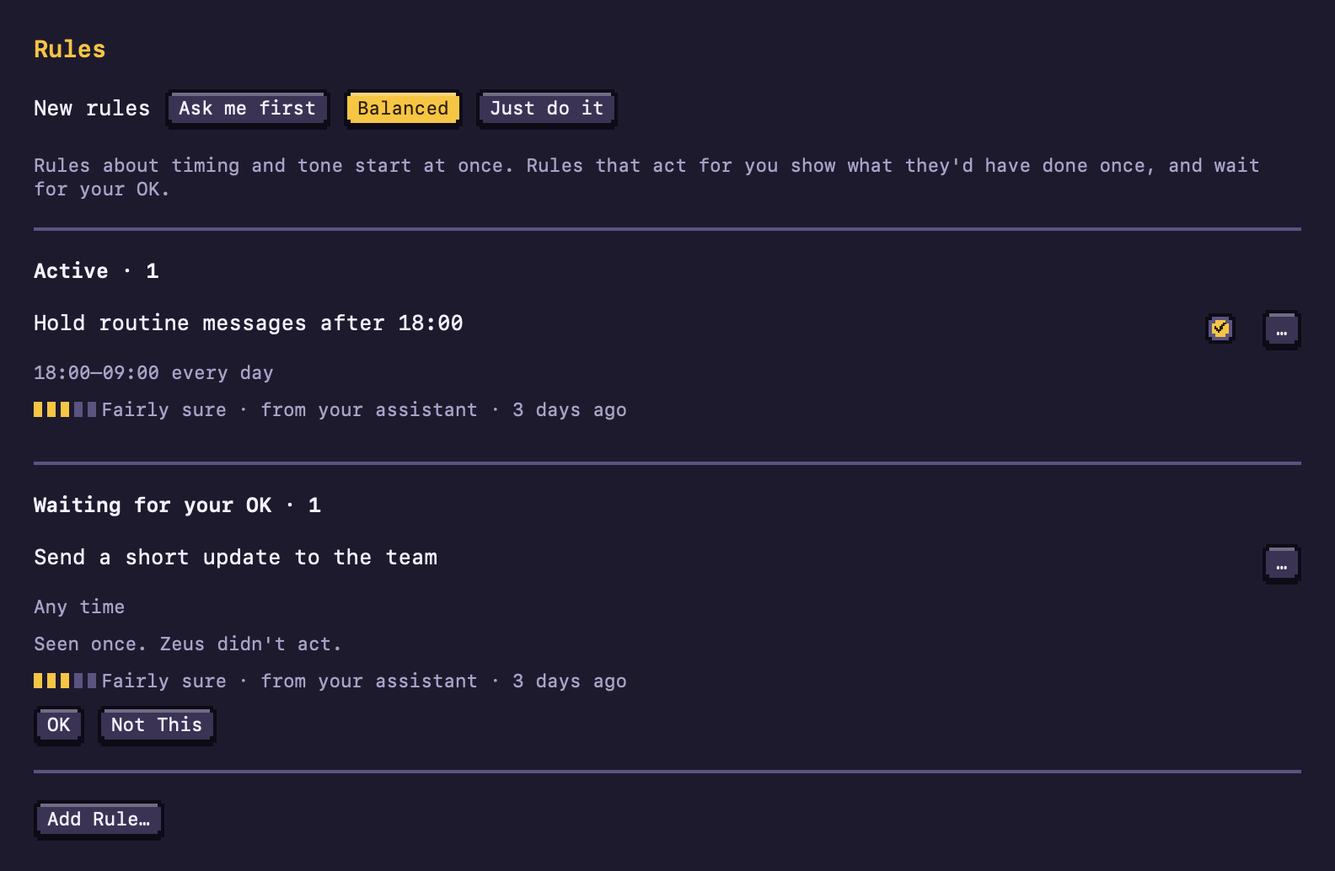
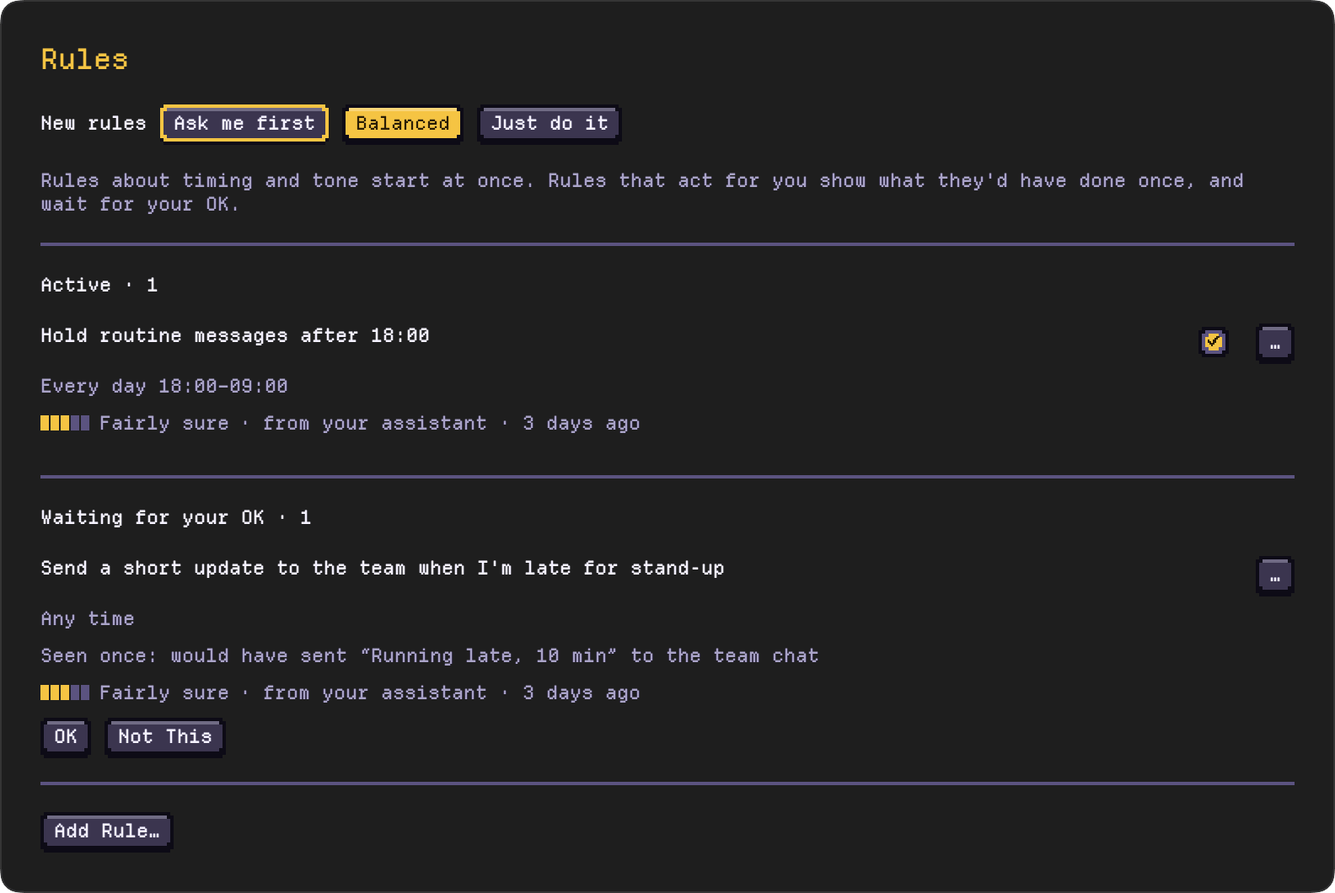
R6: README and SETUP cover all four learning levels and the privacy practices
README "Zeus learns how you work" now describes the four levels with the
permission each needs, the per-level coin and the Safari exception, how
the filtering works on the Mac (patterns, NSDataDetector, NaturalLanguage,
the on-device Foundation Model, Vision; no cloud; encrypted journal), what
the assistant gets and Raw on request, rules with shadow lines, Did · Undo,
outcomes and Why?, Ask About This, the user's controls, and ST1. "How it
works" privacy lines updated to match.

SETUP's Learn from me walkthrough gains a permissions table (Accessibility,
Screen Recording, Input Monitoring and why each is asked), Screen and
Typing sections, what the assistant can ask for, Ask About This, pictures
and typing in What Zeus Kept, acting rules, and three troubleshooting rows.

New README art from the design harness (`render.sh "readmeLearning()"`,
also part of `render.sh readme`): Settings › Privacy with all four levels,
What Zeus Kept with a covered picture and a typing group, and Rules with a
shadow line. Fixture journal under a scratch folder with a fixture key,
drawn window, stock app names; nothing captured or read from this Mac.

Claude-Session: https://claude.ai/code/session_012r8H4QHL5ohdtdo5L588Z2

diff --git a/scripts/design-harness/DesignerAuditRenders.swift b/scripts/design-harness/DesignerAuditRenders.swift
@@ -1011,6 +1011,8 @@ extension DesignerAuditRenders {
             try await settings(look)
             try await themes(look)
         }
+        NSTimeZone.default = previousZone
+        for look in Readme.looks { try await learning(look) }
     }
 
     /// "Make me a cat character" → the Undo line → the assistant's reply, in two themes side by side (R4).
@@ -2101,5 +2103,151 @@ extension DesignerAuditRenders {
                 .padding(18).frame(width: 400).zeusDialog(tail: nil).environment(\.zeusFontChoice, .pixel)
             }
         }
+    }
+}
+
+// MARK: - README: Learn from me (R6). The real Settings › Privacy pane with all four levels, What Zeus Kept with a
+// picture and typing, and Rules. Synthetic records in a fixture journal under a scratch folder with a fixture key;
+// nothing is captured, no permission is asked for, and no real journal, keychain or app list is read.
+
+@MainActor private final class ReadmeLearning {
+    let f: Fixture
+    let journal: EncryptedJournalStore
+    let policies: ObservationSettings
+    let learn: LearnFromMe
+    let learning: LearningPresentation
+    let rules = LM2DManagedRules()
+    let viewer: JournalViewerModel
+    let nav = SettingsNavigation()
+    /// 15:00 today: the viewer's clock, so the day reads "Today" and "days left" is stable within a day.
+    let now: Date
+
+    init() throws {
+        f = Fixture(font: .pixel)
+        let day = Calendar.current.startOfDay(for: Date())
+        now = day.addingTimeInterval(15 * 3600)
+        journal = EncryptedJournalStore(root: f.root.appendingPathComponent("journal"), keyProvider: LM2BPrivateKey())
+        policies = ObservationSettings(defaults: f.defaults)
+        learn = LearnFromMe(settings: LearnSettings(defaults: f.defaults), root: f.root.appendingPathComponent("activity"), source: { AuditActivitySource() })
+        learn.settings.introShown = true
+        learn.settings.enabled = true
+        policies.edit(2) { $0.enabled = true; $0.consented = true }
+        // Levels 3 and 4 show as on; without consent nothing starts capture or asks macOS.
+        policies.edit(3) { $0.enabled = true; $0.consented = false }
+        policies.edit(4) { $0.enabled = true; $0.consented = false
+            $0.apps = [.init(name: "Mail", bundleIDs: ["com.apple.mail"]), .init(name: "Notes", bundleIDs: ["com.apple.Notes"])] }
+        learning = LearningPresentation(defaults: f.defaults, learn: learn, policies: policies)
+        let focus = LM2FocusSource(); focus.application = nil; focus.record = nil
+        learning.install(journal: journal, rules: rules, redactor: ReviewRedactor(), source: focus)
+        learning.screen?.privacy.permission = .granted
+        learning.screen?.privacy.modelAvailable = true
+        learning.typing?.privacy.permission = .granted
+        learning.typing?.privacy.modelAvailable = true
+        viewer = JournalViewerModel(journal: journal, now: now, clock: { [now] in now })
+        nav.showsRules = true
+        try addRecords(day: day)
+        try addRules()
+    }
+
+    private func addRecords(day: Date) throws {
+        func at(_ hour: Int, _ minute: Int) -> Date { day.addingTimeInterval(TimeInterval(hour * 3600 + minute * 60)) }
+        func item(_ id: String, _ time: Date, _ level: JournalLevel, _ app: String?, _ kind: JournalKind, _ description: String,
+                  text: String? = nil, topic: String? = nil, details: [String: String] = [:]) -> JournalItem {
+            JournalItem(id: id, time: time, level: level, app: app, kind: kind,
+                        payload: Redacted(JournalPayload(description: description, text: text, topic: topic, details: details)))
+        }
+        try journal.append(item("s1", at(8, 2), .activity, nil, .sentToAssistant, "Morning summary",
+                                text: "Mostly Notes and Mail yesterday, with a long break at 12:30. Winding down around 18:00.", details: ["sessionLabel": "Claude · Zeus"]))
+        try journal.append(item("f1", at(9, 41), .focus, "com.apple.mail", .focus, "Mail", text: "Window: Lunch with ‹name› on Friday"))
+        // A covered picture of a drawn window: one text line covered, the photo pixellated.
+        let synthetic = try Self.drawWindow()
+        let boxes = [FrameBox(x: 0.04, y: 0.615, width: 0.50, height: 0.075, kind: .text), FrameBox(x: 0.62, y: 0.20, width: 0.33, height: 0.56, kind: .picture)]
+        let covered = try FrameRedactor.cover(synthetic, boxes: boxes)
+        let frame = Redacted(FrameItem(heic: try FrameRedactor.heic(covered), width: 1000, height: 600, boxes: boxes, appName: "TextEdit", windowTitle: "Q3 planning notes"))
+        try journal.appendFrame(frame, item: item("p1", at(10, 12), .screen, "com.apple.TextEdit", .frame, "TextEdit · Q3 planning notes", details: ["window": "Q3 planning notes"]))
+        try journal.append(item("d1", at(10, 12), .screen, "com.apple.TextEdit", .description, "Editing the Q3 planning notes.", details: ["frame_id": "p1", "window": "Q3 planning notes"]))
+        try journal.append(item("t1", at(14, 5), .typed, "com.apple.mail", .typedText, "Typing",
+                                text: "hi dr ‹name› can we move thursday to 3pm my ‹health› is still sore", topic: "Replying to a doctor about rescheduling an appointment"))
+        try journal.append(item("t2", at(14, 31), .typed, "com.apple.mail", .typedText, "Typing",
+                                topic: "Drafting a project update for a colleague", details: ["words_not_kept": "setting"]))
+    }
+
+    /// A generic document window, drawn here: a title bar, a heading, text lines and a colour-block "photo".
+    private static func drawWindow() throws -> CGImage {
+        let size = NSSize(width: 1000, height: 600)
+        let image = NSImage(size: size, flipped: true) { _ in
+            NSColor.white.setFill(); NSRect(origin: .zero, size: size).fill()
+            NSColor(white: 0.9, alpha: 1).setFill(); NSRect(x: 0, y: 0, width: 1000, height: 44).fill()
+            let title: [NSAttributedString.Key: Any] = [.font: NSFont.systemFont(ofSize: 26, weight: .semibold), .foregroundColor: NSColor.black]
+            let body: [NSAttributedString.Key: Any] = [.font: NSFont.systemFont(ofSize: 19), .foregroundColor: NSColor(white: 0.2, alpha: 1)]
+            ("Q3 planning notes" as NSString).draw(at: NSPoint(x: 40, y: 80), withAttributes: title)
+            let lines = ["Goals for the quarter and who owns each one", "Budget review with the finance team on Friday",
+                         "Draft the launch timeline before the offsite", "Collect open questions for the design review",
+                         "Share the summary with everyone on Monday", "Follow up on the venue for the team dinner"]
+            for (index, text) in lines.enumerated() { (text as NSString).draw(at: NSPoint(x: 40, y: 140 + CGFloat(index) * 40), withAttributes: body) }
+            let tones = [NSColor(red: 0.93, green: 0.76, blue: 0.35, alpha: 1), NSColor(red: 0.36, green: 0.55, blue: 0.78, alpha: 1),
+                         NSColor(red: 0.47, green: 0.67, blue: 0.42, alpha: 1), NSColor(red: 0.82, green: 0.45, blue: 0.38, alpha: 1)]
+            for row in 0..<6 { for column in 0..<5 {
+                tones[(row * 3 + column * 2 + row * column) % tones.count].setFill()
+                NSRect(x: 640 + column * 62, y: 150 + row * 52, width: 62, height: 52).fill()
+            } }
+            return true
+        }
+        var rect = NSRect(origin: .zero, size: size)
+        guard let native = image.cgImage(forProposedRect: &rect, context: nil, hints: nil),
+              let raster = CGContext(data: nil, width: 1000, height: 600, bitsPerComponent: 8, bytesPerRow: 4000,
+                                     space: CGColorSpaceCreateDeviceRGB(), bitmapInfo: CGImageAlphaInfo.premultipliedLast.rawValue)
+        else { throw CocoaError(.fileReadCorruptFile) }
+        raster.draw(native, in: CGRect(x: 0, y: 0, width: 1000, height: 600))
+        guard let result = raster.makeImage() else { throw CocoaError(.fileReadCorruptFile) }
+        return result
+    }
+
+    private func addRules() throws {
+        let created = Date().addingTimeInterval(-3 * 86_400)
+        let proposed = try rules.propose([
+            RuleProposal(sentence: "Hold routine messages after 18:00", trigger: .init(time: .init(startMinute: 1080, endMinute: 540)), evidence: ["f1"]),
+            RuleProposal(sentence: "Send a short update to the team when I'm late for stand-up", kind: .acts, confidence: 0.55, evidence: ["f1"])], at: created)
+        guard proposed.count == 2 else { return }
+        rules.ruleActions = [.init(id: "shadow", ruleID: proposed[1].id, sessionKey: "fixture", text: "would have sent “Running late, 10 min” to the team chat",
+                                   undo: nil, created: created.addingTimeInterval(86_400), kind: .shadow)]
+        rules.outcomeEvents = [.init(id: "o1", ruleID: proposed[0].id, at: Date().addingTimeInterval(-86_400), outcome: .accepted, source: .explicit, delta: 0.02)]
+    }
+
+    func settings(_ tab: SettingsTab) -> some View {
+        nav.tab = tab
+        let hub = AgentMessagingHub()
+        return SettingsView(settings: f.settings, managed: ManagedAssistantModel(settings: f.settings, controller: { nil }), cards: f.store, status: f.status, messaging: hub, preview: hub,
+                            testMessage: ComposeModel(cards: f.store, messaging: hub), injectDemo: { _ in }, resetPosition: {},
+                            navigation: nav, login: LoginItemModel(), hotKey: GlobalHotKey(), activity: f.activity, learn: learn, learning: learning)
+    }
+    func kept() -> some View { JournalWindowView(model: viewer, settings: f.settings) }
+    func rulesPane() -> some View { learning.rules.map { RulesSettingsView(model: $0) } }
+    func cleanup() { learning.stop(); f.cleanup() }
+}
+
+extension DesignerAuditRenders {
+    /// The "Zeus learns how you work" README art alone (`render.sh "readmeLearning()"`); `readme()` includes it.
+    @Test func readmeLearning() async throws {
+        for look in Readme.looks { try await learning(look) }
+    }
+
+    /// Settings › Privacy (all four levels), What Zeus Kept (a picture and typing) and Rules, framed like `settings()`.
+    fileprivate func learning(_ look: (name: String, appearance: NSAppearance.Name)) async throws {
+        let r = try ReadmeLearning(); defer { r.cleanup() }
+        func framed(_ view: some View, height: CGFloat, top: CGFloat = 0) -> some View {
+            view.frame(width: 792, height: height, alignment: .top).clipped().padding(.top, top).padding(.bottom, 20)
+                .background(Color(nsColor: .windowBackgroundColor))
+                .clipShape(RoundedRectangle(cornerRadius: 12))
+                .overlay(RoundedRectangle(cornerRadius: 12).strokeBorder(Color(nsColor: .separatorColor)))
+        }
+        // The pane without the tab strip above it (`cut`), ending after Typing's "Raw on request" caption.
+        let privacyHeight = CGFloat(ProcessInfo.processInfo.environment["README_PRIVACY_HEIGHT"].flatMap(Double.init) ?? 2216), cut: CGFloat = 92
+        try await Readme.still("privacy-\(look.name)", appearance: look.appearance, size: CGSize(width: 792, height: privacyHeight - cut + 44), settle: 0.8,
+                               framed(r.settings(.privacy).frame(width: 744, height: privacyHeight - 48).padding(24).offset(y: -cut), height: privacyHeight - cut, top: 24))
+        try await Readme.still("kept-\(look.name)", appearance: look.appearance, size: CGSize(width: 792, height: 540), settle: 0.8,
+                               framed(r.kept(), height: 520))
+        try await Readme.still("rules-\(look.name)", appearance: look.appearance, size: CGSize(width: 792, height: 530), settle: 0.8,
+                               framed(r.rulesPane().padding(24).buttonStyle(ZeusButtonStyle(.secondary, size: .small)).toggleStyle(ZeusCheckboxStyle()), height: 510))
     }
 }

diff --git a/docs/SETUP.md b/docs/SETUP.md
@@ -73,7 +73,20 @@ The 0.1.8 template also covers ending a turn (one short message when it did what
 
 ### Learn from me
 
-**Settings → Privacy** starts with **Learn from me**, a few levels that are each off until you turn them on. More levels are coming, each with its own switch. The pane's first line says how private details are handled: "Private details are removed on this Mac before anything is kept."
+**Settings → Privacy** starts with **Learn from me**: four levels, each off until you turn it on, each with its own switch. The pane's first line says how private details are handled: "Private details are removed on this Mac before anything is kept." With Apple Intelligence off it adds that only fixed patterns (emails, card numbers, passwords…) are caught, and the Typing level can't be turned on.
+
+Each level is cleaned on this Mac before anything is stored: fixed patterns, Apple's `NSDataDetector` and NaturalLanguage name tagging for every record, and Apple's on-device Foundation Model for health, money and secrets in prose, for screen descriptions and for typing topics. Vision reads the text in pictures and finds faces. Nothing goes to Private Cloud Compute or any other cloud, and the journal is encrypted with a key in your keychain. What was removed shows as a placeholder like ‹name›, for you and your assistant alike.
+
+#### The permissions Zeus asks for
+
+| Level | macOS permission | Why Zeus asks for it |
+|---|---|---|
+| Apps and timing | none | It only watches which app is in front. |
+| Windows and pages | **Accessibility** | To read the title of the window in front, and your selection for Ask About This. |
+| Screen | **Screen Recording** | To take a picture of the window in front. macOS needs Zeus reopened once after you allow it, and may show its own recording indicator for a moment when Zeus takes a picture. |
+| Typing | **Input Monitoring** | To read keys in the apps you choose. A password field turns on secure input, so none of its keys ever reach Zeus. |
+
+Zeus asks for each permission once, from that level's consent sheet after you press **Continue**, never on its own later. Until it's allowed, a line under the level's switch says what's missing, with **Open System Settings** (or **Reopen Zeus**). The other levels keep working, and the level resumes by itself when permission comes back.
 
 #### Apps and timing
 
@@ -90,11 +103,11 @@ Turn on **Let Zeus learn when and in what I work**. The first time, Zeus explain
 > Summaries go to your assistant, which sends them to its model provider like any message. Raw activity never leaves this Mac.
 
 Choose **Turn On** or **Not Now**. Then, in the same pane:
+- **Record in:** **Everywhere except my private list** (the default) or **Only in apps I choose**. Every level has this choice; your private list is shared by all of them and always wins.
+- **Private apps** starts with common password managers, Keychain Access, Passwords and System Settings. **Add App…** adds another.
+- **Keep activity for** 7, 14, 30, 60 or 90 days (90 by default). Summaries are kept for a year.
 - **What Zeus has recorded** lists today's events in plain words, newest first.
 - **Notes to your assistant:** besides the morning summary, up to four notes a day: first activity of the day, back from a break of 2 hours or more, a later start than usual, and the day winding down. Untick any you don't want.
-- **Private apps** starts with common password managers, Keychain Access, Passwords and System Settings. **Add App…** adds another.
-- **Keep activity for** 7, 14, 30, 60 or 90 days (30 by default). Summaries are kept for a year.
-- **Pause for Today** stops recording until midnight. **Delete Everything…** removes all activity and summaries, after asking.
 
 Each summary or note also adds a quiet line to the conversation, such as *Sent your daily summary · View*. **View** shows the exact text your assistant got.
 
@@ -110,23 +123,55 @@ Turn on **Let Zeus keep window titles and web addresses**. The first time, Zeus 
 Names, emails, numbers and other private details become placeholders like ‹name› before anything is stored.
 
 - **Accessibility:** press **Continue**, and macOS asks you to allow Zeus under **Privacy & Security › Accessibility**. Zeus uses it only to read window titles. Until you allow it, the pane says *Waiting for Accessibility permission. · Open System Settings*.
-- **Record in:**
-  - **Everywhere except my private list** (the default) records in every app except your private ones. Your private list is the same list as above, and it always wins.
-  - **Only in apps I choose** records only in the apps you add with **Add App…**.
-- **What's kept from browsers:** the web address in Chrome and Edge, never from their private windows.
+- **Record in:** **Everywhere except my private list** or **Only in apps I choose** (the apps you add with **Add App…**).
+- **What's kept from browsers:** the web address in Chrome and Edge, never from their private windows. A browser that can't tell Zeus whether a window is private is treated as private.
   - Safari keeps only that you used it, because Zeus can't tell Safari's private windows apart.
-  - If you add Safari under **Only in apps I choose**, its titles and addresses are kept too, and so are those of its private windows. The pane says so under Safari's row.
+  - If you add Safari under **Only in apps I choose**, its titles and addresses are kept too, and so are those of its private windows. The pane says so under Safari's row. The same goes for Safari at the Screen and Typing levels.
 - **What's never kept:** what's inside a window, anything while a password field is active, private windows in Chrome and Edge, and apps on your private list.
 - **Keep for** 7, 30 or 90 days.
+
+#### Screen
+
+Turn on **Let Zeus look at the window in front now and then**. The consent sheet shows what's kept, when Zeus looks, and an example: a covered page with grey boxes where text was, a blurred picture, and the one-line description under it.
+
+- **When Zeus looks:** it doesn't record your screen. It takes one picture of the window in front when something has changed: after you've switched to an app or document and stayed for 10 seconds, every 5 minutes if you stay in the same place, when you come back from a break, and when you ask. It skips the picture if the window looks the same as last time. It never takes one during a video call, while your screen is mirrored for a presentation, while a password field is active, or in private windows and apps on your private list. While one of those holds, the level's caption says so (*Paused: a video call is on*).
+- **What's kept:** the picture of the window in front with private text covered, every picture in it pixellated and faces blurred, for 7 days; and a one-line description of what you were doing, for 7, 30 or 90 days (**Keep descriptions for**). Never the rest of your screen, other windows, or sound.
+- **Screen Recording:** press **Continue**, and macOS asks you to allow Zeus under **Privacy & Security › Screen & System Audio Recording**. Then the pane says *Allowed. Reopen Zeus to start taking pictures. · Reopen Zeus*; the relaunch keeps your conversation. While the level is on, the pane reminds you that macOS may show its screen-recording indicator for a moment when Zeus takes a picture.
+- **Up to** 4, 12 or 30 pictures an hour (12 by default). Pictures that look the same as the last one don't count.
+- **Let my assistant see the pictures when it asks** (off by default) is the Raw on request switch for this level; see below.
+
+#### Typing
+
+Turn on **Let Zeus keep what I type in apps I choose**. This level needs Apple Intelligence, because the on-device model is what catches names and numbers in casual typing; with it off, the switch is disabled and says why. The consent sheet shows an example: the words as kept, and under them the topic, which is the only part your assistant sees.
+
+- **Only in apps I choose:** there's no "everywhere" here. After the consent sheet, Zeus asks you to choose the apps, and it never records typing in one you haven't added. Apps on your private list can't be added.
+- **Input Monitoring:** macOS asks you to allow Zeus under **Privacy & Security › Input Monitoring**, then needs Zeus reopened once (*Allowed. Reopen Zeus to start. · Reopen Zeus*).
+- **What's never kept:** anything you type into a password field (macOS secure input is on, so the keys never reach Zeus), typing in private windows in Chrome and Edge, what you paste (Zeus notes only that you pasted), and typing made by other apps, such as a password manager filling in a form. While a password field is active, the pane says *Paused: private input.* and the Zeus menu shows *Private input: Zeus isn't noting typing*.
+- **Keep topics** 7, 30 or 90 days (30 by default), and **Keep the words** for 24 hours (the default), 7 days, or **Don't keep**, which keeps topics only. Choosing a shorter time deletes the older ones at once.
+- **Let my assistant see the words when it asks** (off by default) is the Raw on request switch for this level.
+
+#### What your assistant can ask for
+
+Besides the morning summary, your assistant can look in the journal when you ask it about your day ("what was I reading at 3?") or to prepare something you asked for. It gets summaries, window titles, descriptions and topics, as stored. It gets a picture or the words of a stretch of typing only when **Let my assistant see the pictures / the words when it asks** is on for that level, and even then only the covered picture or the redacted words, never the original. Turning either on shows a sheet first, because those go to your assistant's model provider like anything you send.
+
+Every look adds a quiet line to the conversation, such as *Looked at your journal: Tue 14:00–15:30 · View* (or *…including 2 pictures*, or *(descriptions only)* when it asked for more than you allow). **View** opens the answer in **Sent to your assistant**, exactly as sent.
+
+#### Ask About This
+
+Add ⇧ to the Talk shortcut (⇧⌥⌘Z by default; the shortcut's caption in Settings › General says so) or choose **Ask About This** in the Zeus menu. The conversation opens with chips for what's in front, already attached and removable: **Window** and **Selection** (Windows and pages), **Page** (a browser that reports private windows), and **Picture** (Screen). Hover a chip to see exactly what it holds, with private details removed. If a password field or private window is active at that moment, those chips don't appear and the caption says so. With neither level on, the conversation still opens and tells you what to turn on. Sent chips show in the Sent ledger as *Attached: Window, Picture*.
 
 #### What Zeus Kept
 
 **Open What Zeus Kept…** opens a window with two views:
 - **Kept on this Mac:** everything Zeus stored for a day, exactly as stored, with the removed details shown as placeholders.
   - Filter by level or app, and search.
-  - Delete a single record (hover over it or right-click), a whole day, or everything from one app.
+  - Pictures show as thumbnails with *Picture · 6 days left*; click one for the full covered frame with its covered areas outlined, and **Delete Picture** (keeps the description) or **Delete Both…**.
+  - Typing is grouped by app and hour, each stretch with its topic first and the words as kept under it (or *words not kept*).
+  - Delete a single record (hover over it or right-click), a typing group, a whole day, or everything from one app.
   - **Export…** saves what's shown as JSON.
-- **Sent to your assistant:** every morning summary, note and evening reflection Zeus sent, with the exact text. Click a row to expand it.
+- **Sent to your assistant:** every morning summary, note, evening reflection, journal answer and Ask About This attachment Zeus sent, with the exact text. Click a row to expand it.
+
+At the end of the Privacy pane, **Pause for Today** stops every level until midnight, and **Delete Everything…** removes the whole journal and everything sent, after asking. If your keychain is locked, the pane says Zeus can't open its journal and rules; new records wait in memory until it can, and quitting Zeus before then loses them.
 
 #### Rules
 
@@ -136,10 +181,11 @@ Once a day, at your first quiet moment after 18:00, Zeus sends your assistant a 
   - **Ask me first:** every new rule waits under **Suggested**.
   - **Balanced** (the default): rules about timing and tone start at once, and rules that would act for you show what they'd have done once and wait for your OK.
   - **Just do it:** rules start at once, but rules that act for you still show what they'd have done the first time.
-- **Each rule shows** when it applies, how sure Zeus is (*Sure*, *Fairly sure* or *Unsure*), and **Why?**: the records it came from.
-- **Changing rules:** turn a rule off, edit it, delete it (with Undo), or **Add Rule…** to write your own. Rules you write only change when and how Zeus talks to you. To have your assistant act for you, ask it, and it suggests a rule you can OK.
+- **Rules that act for you** (send, post, draft, change a calendar, book) first appear in the conversation as *I'd have sent "Running late, 10 min" to the team chat · OK next time? · Not this*. **OK next time?** turns the rule on; **Not this** retires it (*Got it. I won't.*). Once a rule is on, each time your assistant acts under it you get *Did: … · Undo*, and Undo tells your assistant to reverse it if it can. **Purchases always ask first, every time**, whatever a rule says.
+- **Each rule shows** when it applies, how sure Zeus is (*Sure*, *Fairly sure* or *Unsure*), and **Why?**: the records it came from, and everything that happened since (accepted, undone, skipped, ignored). Confidence moves with those outcomes; it's never shown as a number.
+- **Changing rules:** turn a rule off, edit it, delete it (with Undo), or **Add Rule…** to write your own. Rules you write only change when and how Zeus talks to you, and never retire on their own. To have your assistant act for you, ask it, and it suggests a rule you can OK.
 - **Holding messages:** Zeus enforces timing rules itself. While one applies, routine messages still arrive in the conversation, but with no pop-up and no sound. Urgent ones still pop up.
-- **Retiring:** rules you keep skipping or turning off lose confidence and retire themselves.
+- **Retiring:** rules you keep skipping, undoing or turning off lose confidence and retire themselves, with a line such as *Retired a rule you kept skipping: "…" · Review*. **Turn Back On** under Retired brings one back.
 
 ## 3. Pick a character
 
@@ -303,6 +349,9 @@ On the right: **Open in Terminal** (when there's a terminal to open), **Start Ne
 | I want a sound when Zeus pops up (or I don't) | Settings → General → **Sounds**: turn on **Play a sound when Zeus pops up** and pick the Zeus chime or a macOS sound. It plays at your alert volume (System Settings → Sound) and stays quiet while Zeus is hidden, during quiet hours and while the conversation is open. |
 | My own character doesn't show up | Run `zeus-sprites validate` on your folder (§3). Files with errors are skipped. |
 | Window titles aren't kept | Check that Zeus is switched on in **System Settings › Privacy & Security › Accessibility**. The line under **Windows and pages** in Settings › Privacy says what's missing. |
+| No pictures are taken | Check **System Settings › Privacy & Security › Screen & System Audio Recording**, then reopen Zeus when the line under **Screen** asks you to. Pictures also pause during video calls, presentations and password fields; the caption says so. |
+| Nothing I type is noted | Check **Input Monitoring** in System Settings, reopen Zeus if asked, make sure the app is in the Typing list, and that Apple Intelligence is on. The Zeus menu's *Private input* line means a password field is active; that's normal. |
+| The Privacy pane says Zeus can't open its journal and rules | Your keychain is locked or unavailable. Unlock it (or sign in again); new records wait in memory until then. |
 | Messages arrive without a pop-up | A timing rule is holding them. See Settings › Rules, or the *New rule …* line in the conversation. Urgent messages still pop up. |
 | The assistant posts too often or too rarely | Edit "When to reach out" in your assistant folder's `AGENTS.md`. It's yours to tune. |
 

diff --git a/README.md b/README.md
@@ -91,27 +91,45 @@ It can also check for updates and install one when you ask. Two switches in Sett
 
 ## Zeus learns how you work
 
-Off until you turn it on in **Settings › Privacy**. Learning works in levels, each with its own switch:
-- **Apps and timing:** which app is in front, apps opening and quitting, when you lock, sleep or step away.
-- **Windows and pages:** the title of the window in front, the file it shows, and the web address in Chrome and Edge. It never records what's inside a window, and it needs Accessibility permission.
+<picture>
+  <source media="(prefers-color-scheme: dark)" srcset="docs/readme/privacy-dark.png">
+  <img src="docs/readme/privacy-light.png" align="right" width="380" alt="Settings › Privacy: the four levels Apps and timing, Windows and pages, Screen and Typing, each with its own switch, Record in choice and how long it keeps things.">
+</picture>
 
-More levels are coming, each with its own switch.
+Off until you turn it on in **Settings › Privacy**. Learning works in four levels. Each has its own switch, shows an example of what it keeps before you turn it on, and asks for its own macOS permission:
 
-Each morning your assistant gets a short summary of the day before, so it can pick better moments to help and have the right things ready. The promise:
-1. What Zeus records never leaves your Mac. Your assistant gets summaries.
-2. Private details (names, emails, numbers, passwords) are removed on your Mac **before** anything is stored, using fixed patterns and Apple's on-device model.
-3. Every level is off until you turn it on, and shows an example of what it keeps first.
-4. Password fields, private browser windows, apps on your private list and a locked screen are never recorded. Safari records only that you used it, unless you add it yourself.
-5. **What Zeus Kept** shows every record exactly as stored, and everything Zeus sent your assistant.
-6. Deleting is immediate: one item, a day, an app, or everything.
-7. Summaries go to your assistant, which sends them to its model provider like any message. Raw activity never leaves this Mac.
+- **Apps and timing.** Which app is in front, apps opening and quitting, when you lock, sleep or step away. No permission needed.
+- **Windows and pages** (Accessibility). The title of the window in front, the file it shows, and the web address in Chrome and Edge. Never what's inside a window.
+- **Screen** (Screen Recording). One picture of the window in front, never the whole screen, when something has changed: after you've settled on an app or document, every 5 minutes in the same place, when you come back from a break, and when you ask. Never during a video call, while presenting, while a password field is active, or in private windows. On your Mac, Zeus reads the picture's text and covers the private parts, pixellates every picture in it and blurs faces, then writes a one-line description of what you were doing. Pictures are deleted after 7 days and descriptions after 7, 30 or 90, and you cap it at 4, 12 or 30 pictures an hour.
+- **Typing** (Input Monitoring). What you were typing about in the apps you choose, as a one-line topic per stretch of typing. A password field turns on macOS secure input, so none of its characters ever reach Zeus. Pasted text is never read: Zeus notes only that you pasted. Topics are kept for 30 days and the words, with private details removed, for 24 hours, or not at all with **Don't keep**, which keeps topics only. While a password field is active, the Zeus menu says *Private input: Zeus isn't noting typing*.
+
+Each level records **everywhere except my private list** or **only in apps I choose** (Typing is always the second). Safari is the exception: Zeus can't tell its private windows apart, so at every level it records only that you used Safari unless you add it yourself. A browser that can't say whether a window is private is treated as private.
+
+**How the filtering works, on your Mac.** Private details are removed before anything is stored, not just before it's sent. Fixed patterns catch emails, card numbers and passwords, `NSDataDetector` finds phone numbers and addresses, the NaturalLanguage framework tags names, and Apple's on-device Foundation Model handles the rest (health, money and secrets in plain prose) and writes the screen descriptions and typing topics. Vision reads the text in pictures and finds faces. Nothing is sent to Apple's Private Cloud Compute or to any cloud by Zeus: it has no models of its own. What was removed shows as a placeholder like ‹name›, for you and your assistant alike. The journal is encrypted on disk with a key in your keychain.
+
+<br clear="right">
+
+**What your assistant gets.** Each morning, a short summary of the day before, so it can pick better moments to help and have the right things ready. When you ask it about your day ("what was I reading at 3?"), it can look in the journal and gets summaries, descriptions and topics. It gets a picture or the words only if you turn on **Raw on request** for that level, and even then only the covered picture or the redacted words, never the original. Every answer appears in the conversation (*Looked at your journal: Tue 14:00–15:30 · View*) and in the **Sent to your assistant** ledger, exactly as sent. Your assistant sends what it gets to its model provider, like any message.
 
 <picture>
   <source media="(prefers-color-scheme: dark)" srcset="docs/readme/rules-dark.png">
-  <img src="docs/readme/rules-light.png" align="right" width="400" alt="Settings › Rules: the New rules dial set to Balanced, one active rule holding routine messages after 18:00, and one rule waiting for your OK.">
+  <img src="docs/readme/rules-light.png" align="left" width="400" alt="Settings › Rules: the New rules dial set to Balanced, one active rule holding routine messages after 18:00, and one rule waiting for your OK that shows what it would have done.">
 </picture>
 
-**Rules.** Once a day, after your work winds down, your assistant looks over the summary and suggests rules about how to help you, like "Hold routine messages after 18:00". Rules about timing and tone start at once, with a quiet line in the conversation. Rules that would act for you first show what they'd have done and wait for your OK. **Settings › Rules** lists every rule with why it exists, and lets you turn it off, edit it, delete it or add your own. Zeus holds messages for timing rules itself, so your assistant can't talk over them.
+**Rules.** Once a day, after your work winds down, your assistant looks over the day and may suggest rules about how to help you, like "Hold routine messages after 18:00". Rules about timing and tone start at once, with a quiet line in the conversation. A rule that would act for you first shows what it would have done (*I'd have sent "Running late, 10 min" to the team chat · OK next time?*) and waits for your OK; after that, each time it acts you get *Did: … · Undo*. A rule gains or loses confidence from what happens next, and one you keep skipping or undoing retires itself. **Why?** in Settings › Rules shows the records it came from and everything that happened since. Purchases always ask first, every time, whatever the rule says. The **New rules** dial (Ask me first, Balanced, Just do it) sets how new rules start. Zeus holds messages for timing rules itself, so your assistant can't talk over them.
+
+**Ask About This.** Add Shift to the Talk shortcut (⇧⌥⌘Z) or choose it in the Zeus menu, and the conversation opens with chips for the window in front, your selection, the page's address or a picture of the window, already attached with private details removed. Remove any you don't want to send.
+
+<br clear="left">
+
+<picture>
+  <source media="(prefers-color-scheme: dark)" srcset="docs/readme/kept-dark.png">
+  <img src="docs/readme/kept-light.png" align="right" width="400" alt="What Zeus Kept for one day: window titles with ‹name› placeholders, a covered picture with its description and days left, private time, and a stretch of typing in Mail with its topic and the words as kept.">
+</picture>
+
+**Your controls.** **What Zeus Kept** shows every record exactly as stored, with the placeholders visible, and deletes one record, a day, an app or everything at once. **Sent to your assistant** is the ledger of everything it got. Every level shows an example of what it keeps before it asks for anything, **Pause for Today** stops all of it until midnight, and if your keychain is locked, new records wait in memory and the Privacy pane says so.
+
+**Only your assistant may talk to Zeus.** Any other session that has the Zeus server is refused and never reaches the conversation; the first time, a quiet line says which one tried, with *Make it my assistant · Ignore*.
 
 <br clear="right">
 
@@ -119,7 +137,8 @@ Each morning your assistant gets a short summary of the day before, so it can pi
 
 - `zeus-mcp` is an MCP server your assistant connects to. Its tools (`zeus_say`, `zeus_ask`, `zeus_present`, `zeus_set_status`, …) drive the character and the conversation panel.
 - Your replies go back to the session that asked: through its Terminal pane in tmux, Claude Code's channel or OpenCode's local server. Each one is acknowledged, so a message is never lost or delivered twice.
-- Everything stays on your Mac. Zeus uses no cloud models of its own, only Apple's on-device model to remove private details. It never edits your agent's settings and never accepts prompts on your behalf. If you turn on Learn from me, Zeus sends your assistant short summaries with private details removed, which it passes to its model provider like any message; what Zeus records never leaves your Mac.
+- Everything stays on your Mac. Zeus uses no cloud models of its own, only Apple's on-device models to remove private details, describe pictures and name typing topics. It never edits your agent's settings and never accepts prompts on your behalf.
+- With Learn from me on, your assistant gets summaries, descriptions and topics with private details already removed, and covered pictures or redacted words only when you allow that for a level and it asks. It passes them to its model provider like any message. The journal itself is encrypted and never leaves your Mac.
 
 The interfaces are documented in [docs/CONTRACT.md](docs/CONTRACT.md).
 
